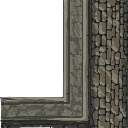
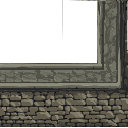
Update planszy #3

diff --git a/src/main/java/game/view/GameView.java b/src/main/java/game/view/GameView.java
@@ -36,7 +36,11 @@ public class GameView {
     private Image wallObjImage; // Dla obiektów ścian (6 / "wall")
     private Image wallRightObjImage;
     private Image wallBackObjImage;
-    private Image wallCornerObjImage;
+    private Image wallCornerObjImage; //to jest ten podstawowy
+    private Image wallSRCornerImage;
+    private Image wallNRCornerImage;
+    private Image wallNLCornerImage;
+    private Image wallLeftObjImage;
 
     //Agenci
     private Image juniorImg;
@@ -84,6 +88,10 @@ public class GameView {
         this.wallRightObjImage = safeLoad("/images/wallRightObj.png");
         this.wallBackObjImage = safeLoad("/images/wallBackObj.png");
         this.wallCornerObjImage = safeLoad("/images/wallCornerObj.png");
+        this.wallSRCornerImage = safeLoad("/images/wallSRCorner.png");
+        this.wallNRCornerImage = safeLoad("/images/wallNRCorner.png");
+        this.wallNLCornerImage = safeLoad("/images/wallNLCorner.png");
+        this.wallLeftObjImage = safeLoad("/images/wallLeftObj.png");
     }
 
     // Magiczna metoda pomocnicza, która sprawdzi w konsoli KAŻDY plik z osobna
@@ -104,7 +112,6 @@ public class GameView {
     public void render(game.core.Simulation sim) {
         // 1. Czyszczenie ekranu przed każdym rysowaniem
         gc.clearRect(0, 0, canvas.getWidth(), canvas.getHeight());
-
 
 // 2. Rysowanie planszy (AUTOMATYCZNE DWUWARSTWOWE)
         for (int y = 0; y < board.getHeight(); y++) {
@@ -162,23 +169,42 @@ public class GameView {
                         else drawPlaceholder(px, py, Color.GRAY);
                         break;
 
-                    case "wall_right": // Twoja nowa prawa ściana odcinająca trawę
+                    case "wall_right": // Prawa ściana odcinająca trawę
                         if (wallRightObjImage != null) gc.drawImage(wallRightObjImage, px, py, TILE_SIZE, TILE_SIZE);
                         else drawPlaceholder(px, py, Color.GRAY);
                         break;
 
-                    // --- TUTAJ SĄ DODANE TWOJE 2 NOWE OBIEKTY ŚCIAN ---
-                    case "wall_back": // Tylna ściana (dla cyfry 10)
+                    case "wall_back": // Tylna ściana
                         if (wallBackObjImage != null) gc.drawImage(wallBackObjImage, px, py, TILE_SIZE, TILE_SIZE);
                         else drawPlaceholder(px, py, Color.GRAY);
                         break;
 
-                    case "wall_corner": // Narożna ściana (dla cyfry 11)
+                    case "wall_corner": // Narożna ściana
                         if (wallCornerObjImage != null) gc.drawImage(wallCornerObjImage, px, py, TILE_SIZE, TILE_SIZE);
                         else drawPlaceholder(px, py, Color.GRAY);
                         break;
 
-                    // Dla czystych podłóg ("floor", "outside", "boss_office") nic dodatkowego nie nakładamy
+                    case "wall_sr_corner":
+                        if (wallSRCornerImage != null) gc.drawImage(wallSRCornerImage, px, py, TILE_SIZE, TILE_SIZE);
+                        else drawPlaceholder(px, py, Color.GRAY);
+                        break;
+
+                    case "wall_nr_corner":
+                        if (wallNRCornerImage != null) gc.drawImage(wallNRCornerImage, px, py, TILE_SIZE, TILE_SIZE);
+                        else drawPlaceholder(px, py, Color.GRAY);
+                        break;
+
+                    case "wall_nl_corner":
+                        if (wallNLCornerImage != null) gc.drawImage(wallNLCornerImage, px, py, TILE_SIZE, TILE_SIZE);
+                        else drawPlaceholder(px, py, Color.GRAY);
+                        break;
+
+                    // --- OTO TA JEDNA DODANA LEWA ŚCIANA ---
+                    case "wall_left":
+                        if (wallLeftObjImage != null) gc.drawImage(wallLeftObjImage, px, py, TILE_SIZE, TILE_SIZE);
+                        else drawPlaceholder(px, py, Color.GRAY);
+                        break;
+
                     default:
                         break;
                 }

diff --git a/src/main/java/game/model/GameBoard.java b/src/main/java/game/model/GameBoard.java
@@ -18,7 +18,7 @@ public class GameBoard {
 
     private void initalizeBoard() {
         int[][] floorLayout = {
-                {1, 1, 0, 0, 0, 0, 0, 0, 0, 0, 0, 0, 0, 0, 0, 0},
+                {1, 1, 0, 0, 0, 0, 0, 0, 0, 0, 0, 0, 0, 2, 2, 2},
                 {1, 1, 4, 0, 0, 0, 0, 0, 0, 0, 0, 0, 4, 2, 2, 2},
                 {1, 1, 4, 0, 0, 0, 0, 0, 0, 0, 0, 0, 4, 2, 2, 2},
                 {1, 1, 4, 0, 0, 0, 0, 0, 0, 0, 0, 0, 4, 2, 2, 2},
@@ -32,16 +32,16 @@ public class GameBoard {
         //1 - grass, 0-floor, 2-boss_office_floor, 3-wallNotWalkable, 4- floorNotWalkable
 
         int[][] objectLayout = {
-                {0, 0, 10, 10, 10, 10, 10, 10, 10, 10, 10, 10, 10, 10, 10, 10},
-                {0, 0, 5, 0, 0, 0, 0, 0, 0, 0, 0, 0, 0, 5, 8, 0}, // 8 to biurko bossa
-                {0, 0, 5, 0, 9, 0, 9, 0, 9, 0, 9, 0, 0, 5, 0, 0},
-                {0, 0, 5, 0, 0, 0, 0, 0, 0, 0, 0, 0, 0, 11, 6, 0},
-                {0, 0, 5, 0, 9, 0, 9, 0, 9, 0, 9, 0, 0, 0, 0, 0}, // Zwykłe biurki (9)
-                {0, 0, 5, 0, 0, 0, 0, 0, 0, 0, 0, 0, 0, 0, 0, 0},
-                {0, 0, 5, 0, 9, 0, 9, 0, 9, 0, 9, 0, 0, 0, 0, 0},
-                {0, 0, 5, 0, 0, 0, 0, 0, 0, 0, 0, 0, 0, 0, 7, 7},
-                {0, 0, 5, 0, 9, 0, 9, 0, 9, 0, 9, 0, 0, 0, 0, 0},
-                {0, 0, 11, 6, 6, 6, 6, 6, 6, 6, 6, 6, 6, 6, 6, 6}
+                {0, 0, 14, 10, 10, 10, 10, 10, 10, 10, 10, 10, 10, 14, 10, 13},
+                {0, 0,  5,  0,  0,  0,  0,  0,  0,  0,  0,  0,  0,  5,  8, 15}, // 8 to biurko bossa
+                {0, 0,  5,  0,  9,  0,  9,  0,  9,  0,  9,  0,  0,  5,  0, 15},
+                {0, 0,  5,  0,  0,  0,  0,  0,  0,  0,  0,  0,  0, 11,  6, 12},
+                {0, 0,  5,  0,  9,  0,  9,  0,  9,  0,  9,  0,  0,  0,  0, 15}, // Zwykłe biurka (9)
+                {0, 0,  5,  0,  0,  0,  0,  0,  0,  0,  0,  0,  0,  0,  0, 15},
+                {0, 0,  5,  0,  9,  0,  9,  0,  9,  0,  9,  0,  0,  0,  0, 15},
+                {0, 0,  5,  0,  0,  0,  0,  0,  0,  0,  0,  0,  0,  7,  7, 15},
+                {0, 0,  5,  0,  9,  0,  9,  0,  9,  0,  9,  0,  0,  0,  0, 15},
+                {0, 0, 11,  6,  6,  6,  6,  6,  6,  6,  6,  6,  6,  6,  6, 12}
         };
         //7 - coffeeObj, 9 - worker_deskObj, 6 - wallObj, 0 - floor, 8 - boss_deskObj, 5-wallRightObj
 
@@ -67,6 +67,10 @@ public class GameBoard {
         if (objectValue == GameConfiguration.OBJ_COFFEE) return "coffee";
         if (objectValue == GameConfiguration.OBJ_WALL) return "wall";
         if (objectValue == GameConfiguration.OBJ_WALL_RIGHT) return "wall_right";
+        if (objectValue == GameConfiguration.OBJ_WALL_SR_CORNER) return "wall_sr_corner";
+        if (objectValue == GameConfiguration.OBJ_WALL_NR_CORNER) return "wall_nr_corner";
+        if (objectValue == GameConfiguration.OBJ_WALL_NL_CORNER) return "wall_nl_corner";
+        if (objectValue == GameConfiguration.OBJ_WALL_LEFT) return "wall_left";
 
         // --- OTO NOWE MAPOWANIE NAZW ---
         if (objectValue == GameConfiguration.OBJ_WALL_BACK) return "wall_back";

diff --git a/src/main/java/game/model/Cell.java b/src/main/java/game/model/Cell.java
@@ -41,13 +41,16 @@ public class Cell {
         return y;
     }
 
-    // ZMIANA: Teraz ta metoda blokuje WSZYSTKIE kafelki, po których nie wolno chodzić!
-    public boolean isWall(){
-        return "wall".equals(type) ||
-                "wall_not_walkable".equals(type) ||
-                "floor_not_walkable".equals(type) ||
-                "desk".equals(type) ||
-                "boss_desk".equals(type);
+    public boolean isWall() {
+        return type.equals("wall")
+                || type.equals("wall_not_walkable")
+                || type.equals("wall_right")
+                || type.equals("wall_back")
+                || type.equals("wall_corner")
+                || type.equals("wall_sr_corner")  // <-- ZABLOKOWANY NOWY CORNER
+                || type.equals("wall_nr_corner")  // <-- ZABLOKOWANY NOWY CORNER
+                || type.equals("wall_nl_corner") // <-- ZABLOKOWANY NOWY CORNER
+                || type.equals("wall_left"); // <-- BLOKADA DLA NOWEJ LEWEJ ŚCIANY
     }
 
     // ZMIANA: Uniwersalne sprawdzenie dla obu rodzajów biurek

diff --git a/src/main/java/game/core/GameConfiguration.java b/src/main/java/game/core/GameConfiguration.java
@@ -31,4 +31,8 @@ public class GameConfiguration {
     public static final int OBJ_WALL_RIGHT = 5;
     public static final int OBJ_WALL_BACK = 10;     // Dla wallBackObj.png
     public static final int OBJ_WALL_CORNER = 11;   // Dla wallCornerObj.png
+    public static final int OBJ_WALL_SR_CORNER = 12; // Dla wallSRCorner.png
+    public static final int OBJ_WALL_NR_CORNER = 13; // Dla wallNRCorner.png
+    public static final int OBJ_WALL_NL_CORNER = 14; // Dla wallNLCorner.png
+    public static final int OBJ_WALL_LEFT = 15; // Dla wallLeftObj.png
 }